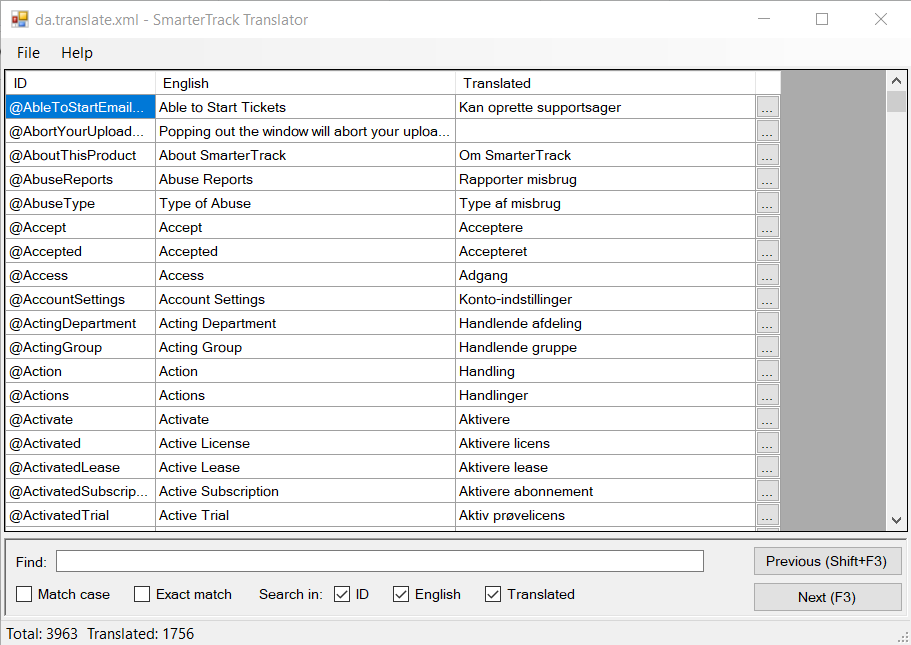
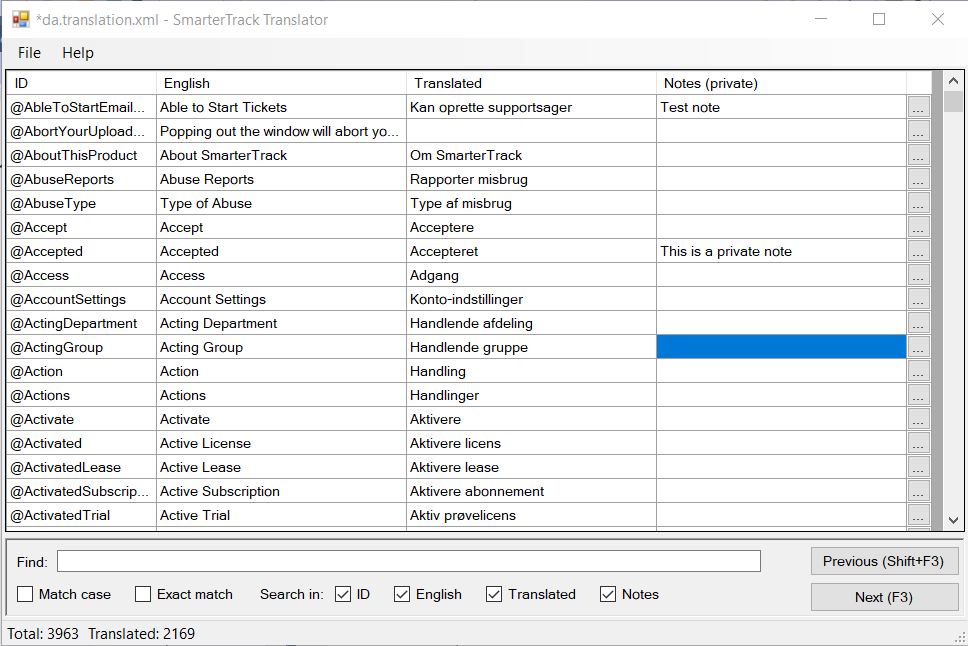
Added private notes column, forced translation file extension ".translation.xml"

Changed region(s): [[0.0, 0.0, 1.0, 1.0], [0.1537, 0.8992, 0.6762, 0.9302], [0.6762, 0.5891, 0.7069, 0.7442]]

diff --git a/README.md b/README.md
@@ -2,7 +2,7 @@
 
 A Windows desktop tool for creating and updating translation files (for UI internationalization) for [SmarterTrack](https://www.smartertools.com/smartertrack).
 
-Lists English and translated items a side-by-side for easy reference, has a search function, and a helper dialog for multi-line items.
+Lists English and translated items a side-by-side for easy reference, records private notes for each item, has a search function, and a helper dialog for multi-line items.
 
 Using this tool, rather than editing the XML file directly, makes it easier to keep track of which items have been translated and which have not (the Translation column is empty for those that have not).
 
@@ -17,7 +17,10 @@ Also, whenever a new version of SmarterTrack is released, this tool makes it eas
 - Save your work (File menu / Save Translation).
 - And finally, generate a new language translation file for upload to your SmarterTrack web-site (File menu / Save Combined).
 
-The "Save Translation" function generates a file which only contains the entries that have been translated. Entries where the "Translated" column is blank are not saved. The "Save Combined" function generates a complete translation file which can be uploaded to your SmarterTrack web-site. For entries where the "Translated" column is blank, the English version is used instead.
+The "Save Translation" function generates a file which only contains the entries that have been translated or have private notes. Entries where both the "Translated" and the "Notes (private)" columns are blank, are not saved.
+
+ The "Save Combined" function generates a complete translation file which can be uploaded to your SmarterTrack web-site. For entries where the "Translated" column is blank, the English version is used instead.
+The "Notes (private)" column is not included in the combined file.
 
 You should always keep a separate "Save Translation" file version of your work.
 
